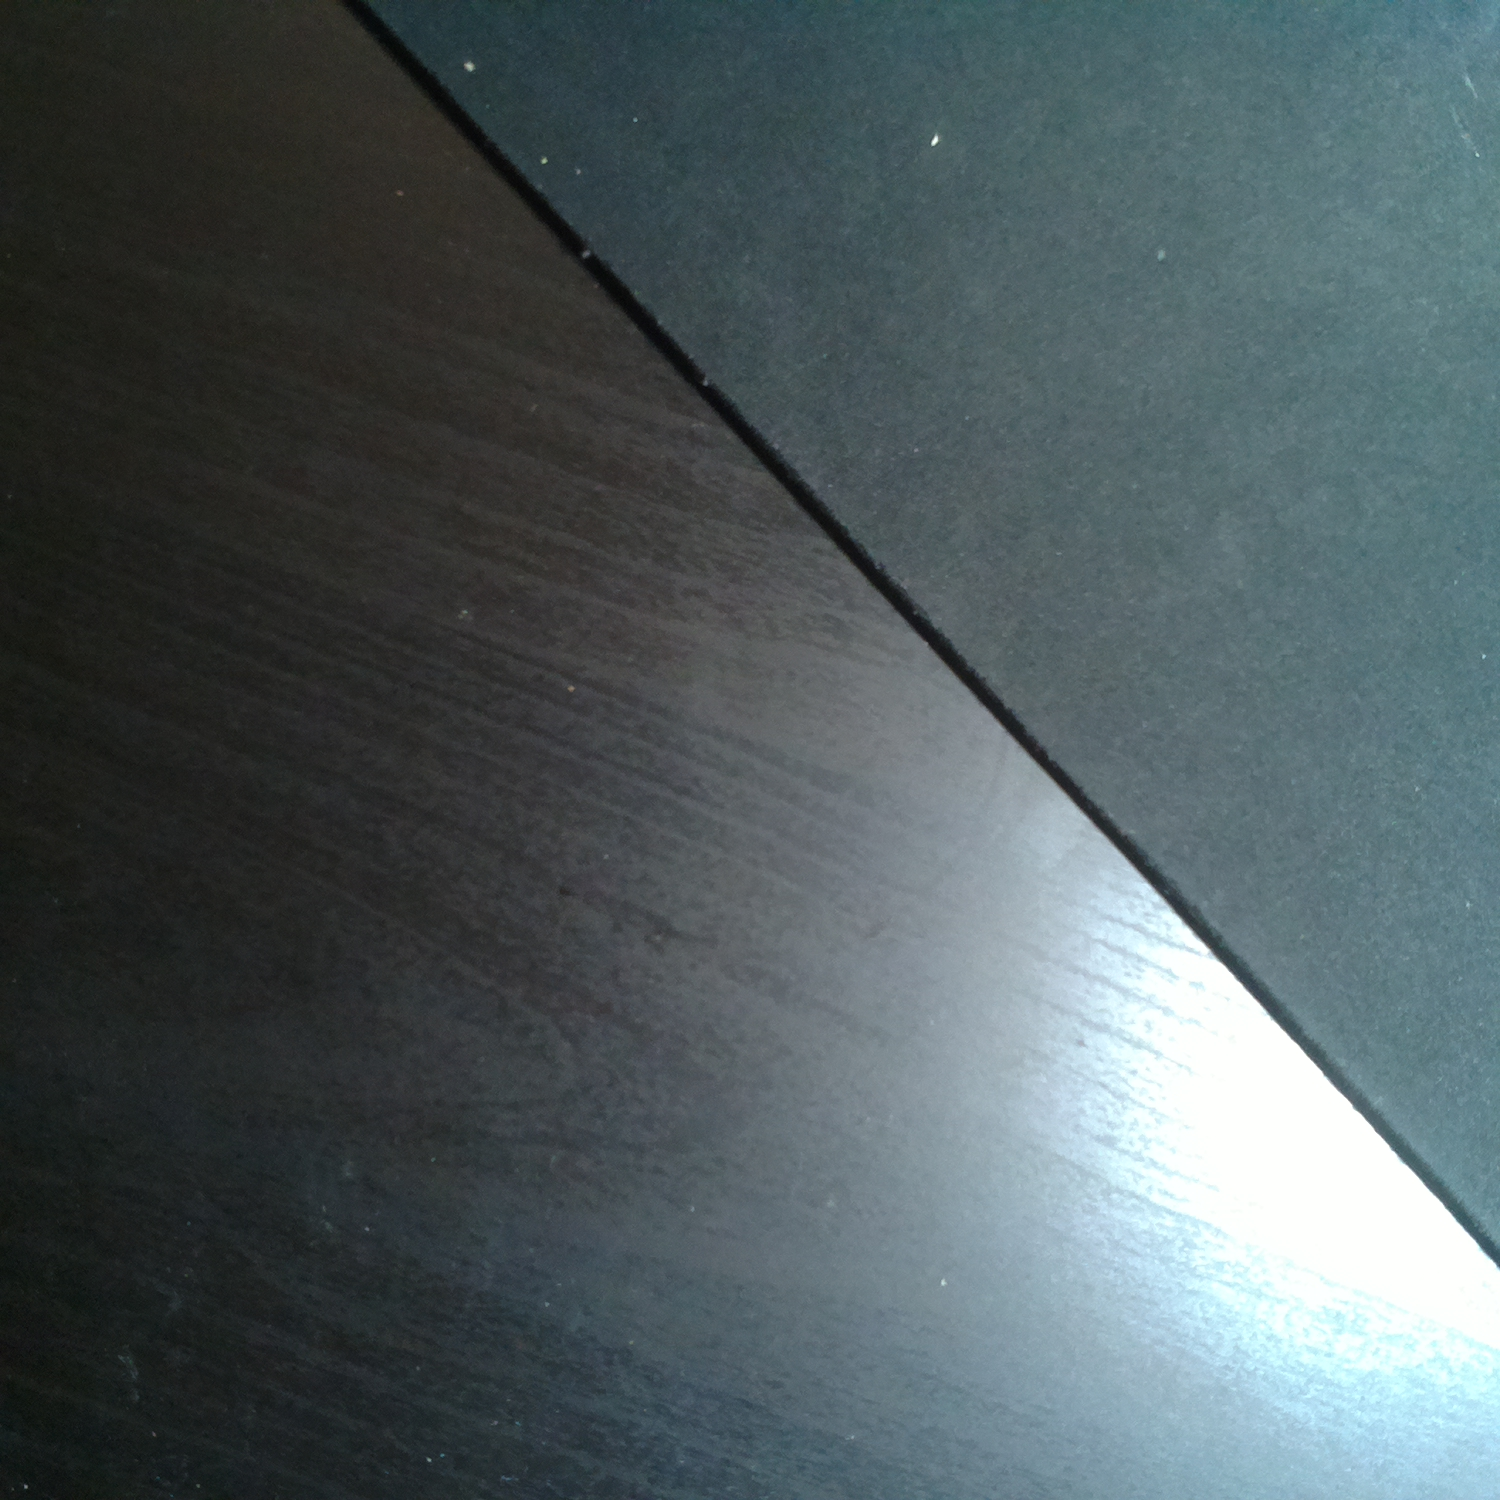
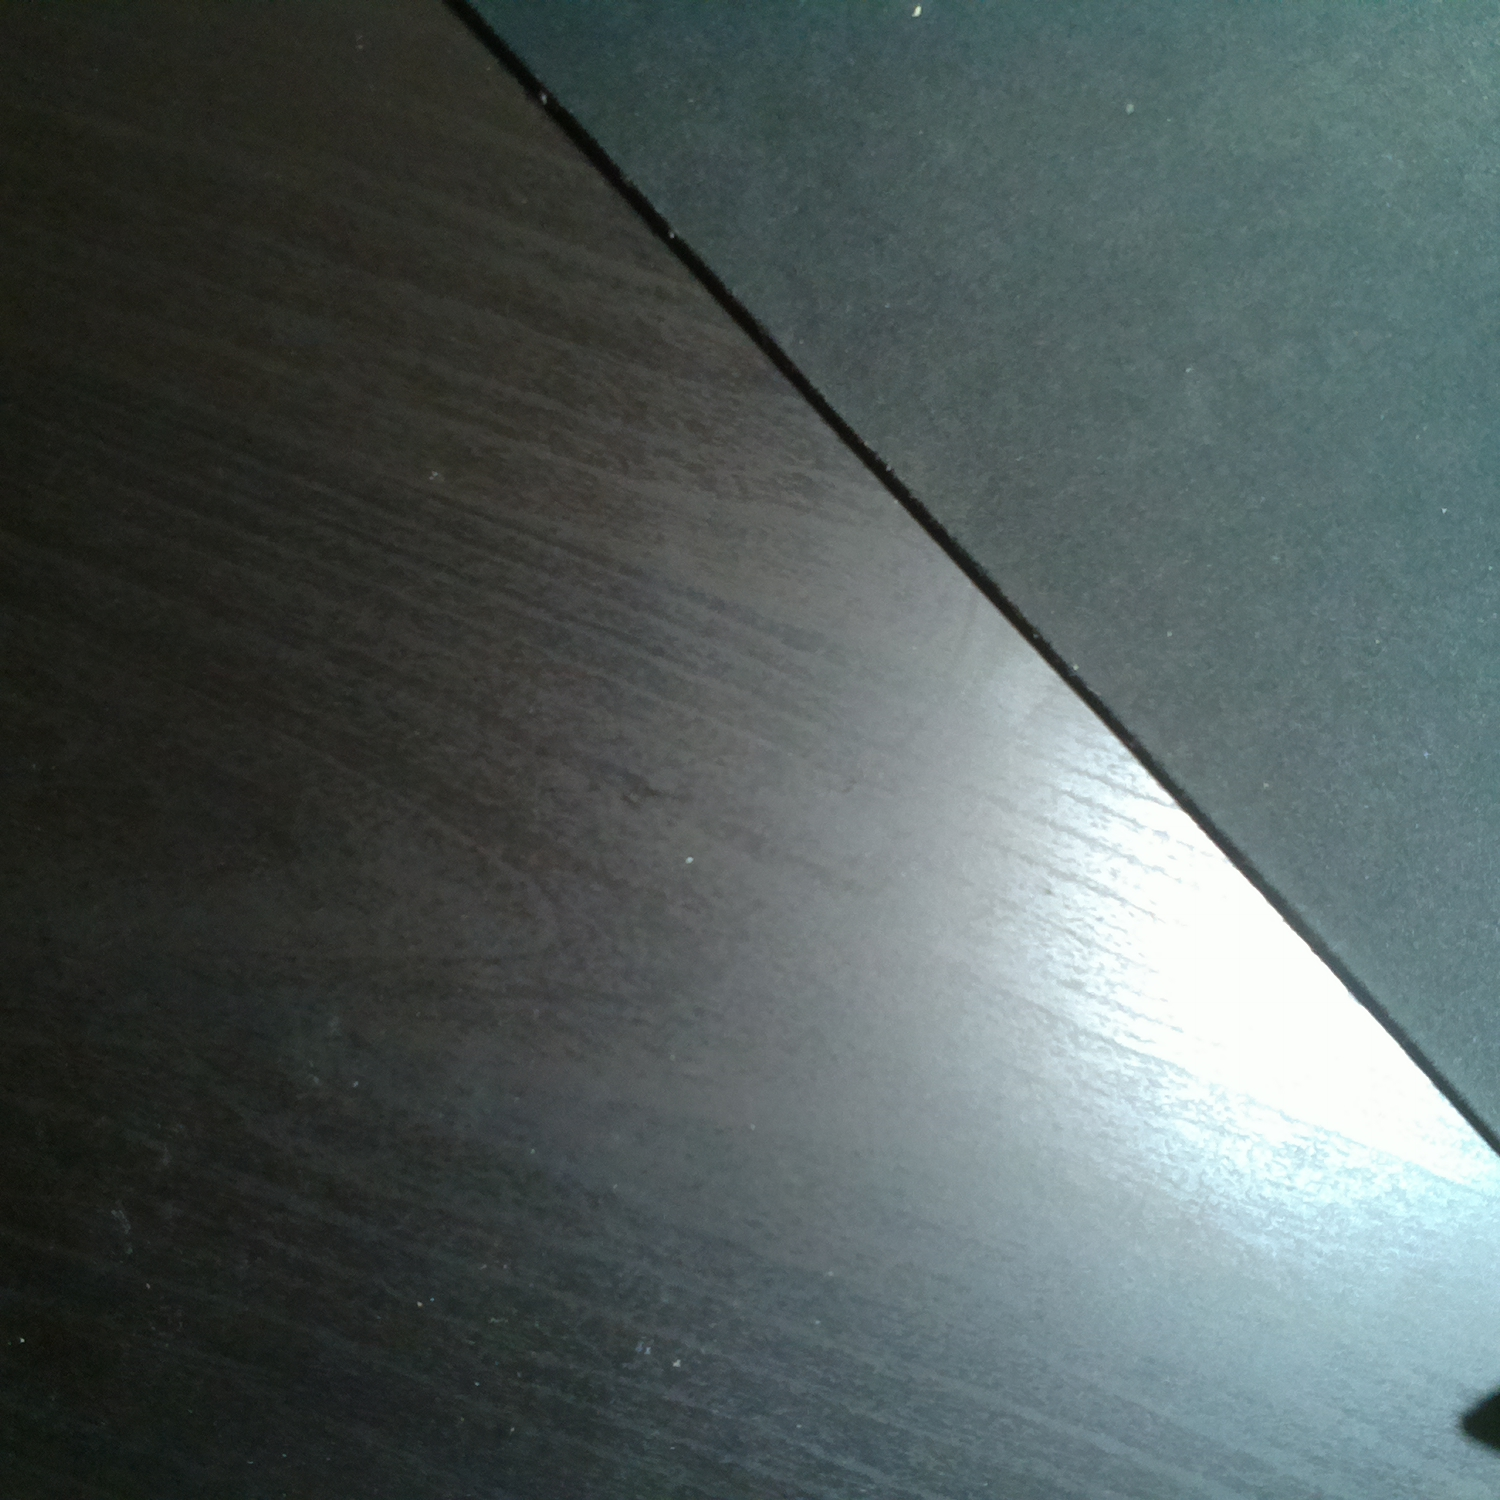
added lots more photos

diff --git a/main.py b/main.py
@@ -4,7 +4,7 @@ from picamera import PiCamera
 camera = PiCamera()
 camera.resolution = (1500,1500)
 camera.start_preview()
-for i in range(10):
+for i in range(100):
     sleep(1)
     camera.capture('images/solved/solved' + str(i) + '.jpg')
 camera.stop_preview()
